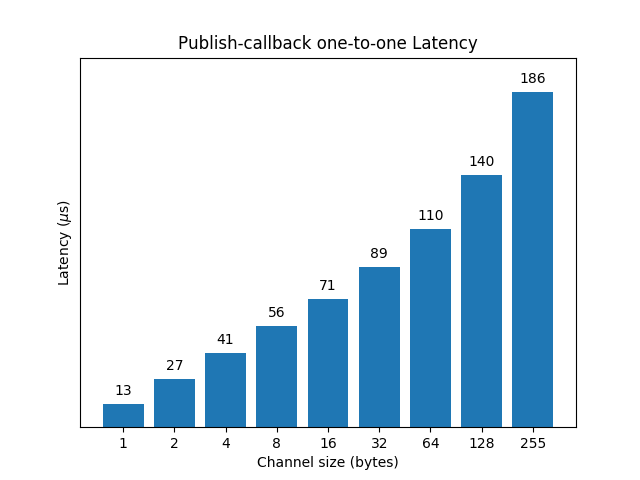
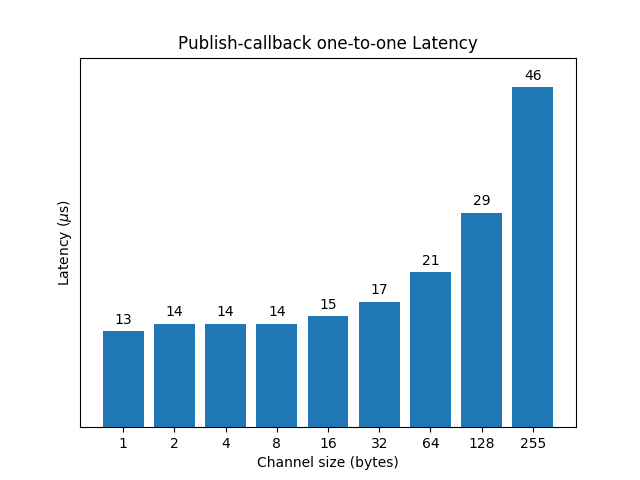
Finish performance samples

Changed region(s): [[0.1562, 0.4375, 0.7188, 0.8438], [0.7188, 0.3125, 0.7812, 0.4688], [0.8125, 0.125, 0.875, 0.2188]]

diff --git a/samples/pub_cb_o2o_performance/chart.py b/samples/pub_cb_o2o_performance/chart.py
@@ -6,12 +6,12 @@ import matplotlib.pyplot as plt
 
 def channel_latency_ping():
     xs = ['1', '2', '4', '8', '16', '32', '64', '128', '255']
-    ys = [13, 27, 41, 56, 71, 89, 110, 140, 186]
+    ys = [13, 14, 14, 14, 15, 17, 21, 29, 46]
     plt.bar(xs, ys)  #, color=(0.4, 0.4, 0.4, 1.0))
     for x, y in zip(xs, ys):
-        plt.text(x, y + 5, r"{0}".format(y), horizontalalignment='center')
+        plt.text(x, y + 1, r"{0}".format(y), horizontalalignment='center')
 
-    plt.ylim([0, 205])
+    plt.ylim([0, 50])
     plt.yticks([])
     plt.ylabel(r'Latency ($\mu$s)')
     plt.xlabel('Channel size (bytes)')

diff --git a/samples/pub_cb_o2o_performance/src/ping.c b/samples/pub_cb_o2o_performance/src/ping.c
@@ -58,6 +58,7 @@ void PING_task()
                    k_cyc_to_us_floor64(total_cycles));
             printk("[%u bytes]Mean in us = %llu\n", 1 << current_channel,
                    k_cyc_to_us_floor64(total_cycles) / 1000);
+            total_cycles = 0;
             if (current_channel < 11) {
                 ++current_channel;
             } else {
